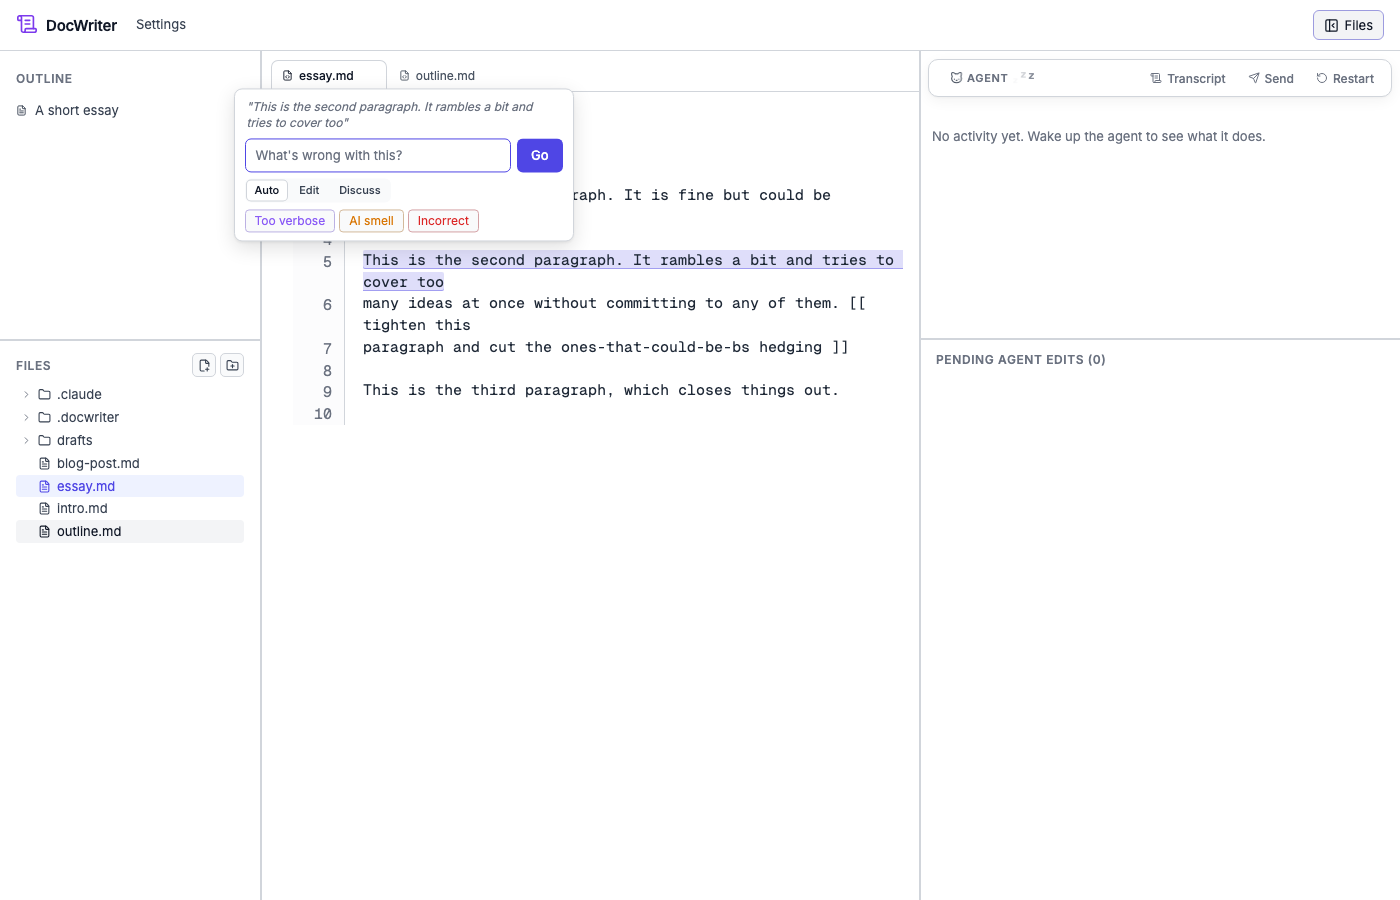
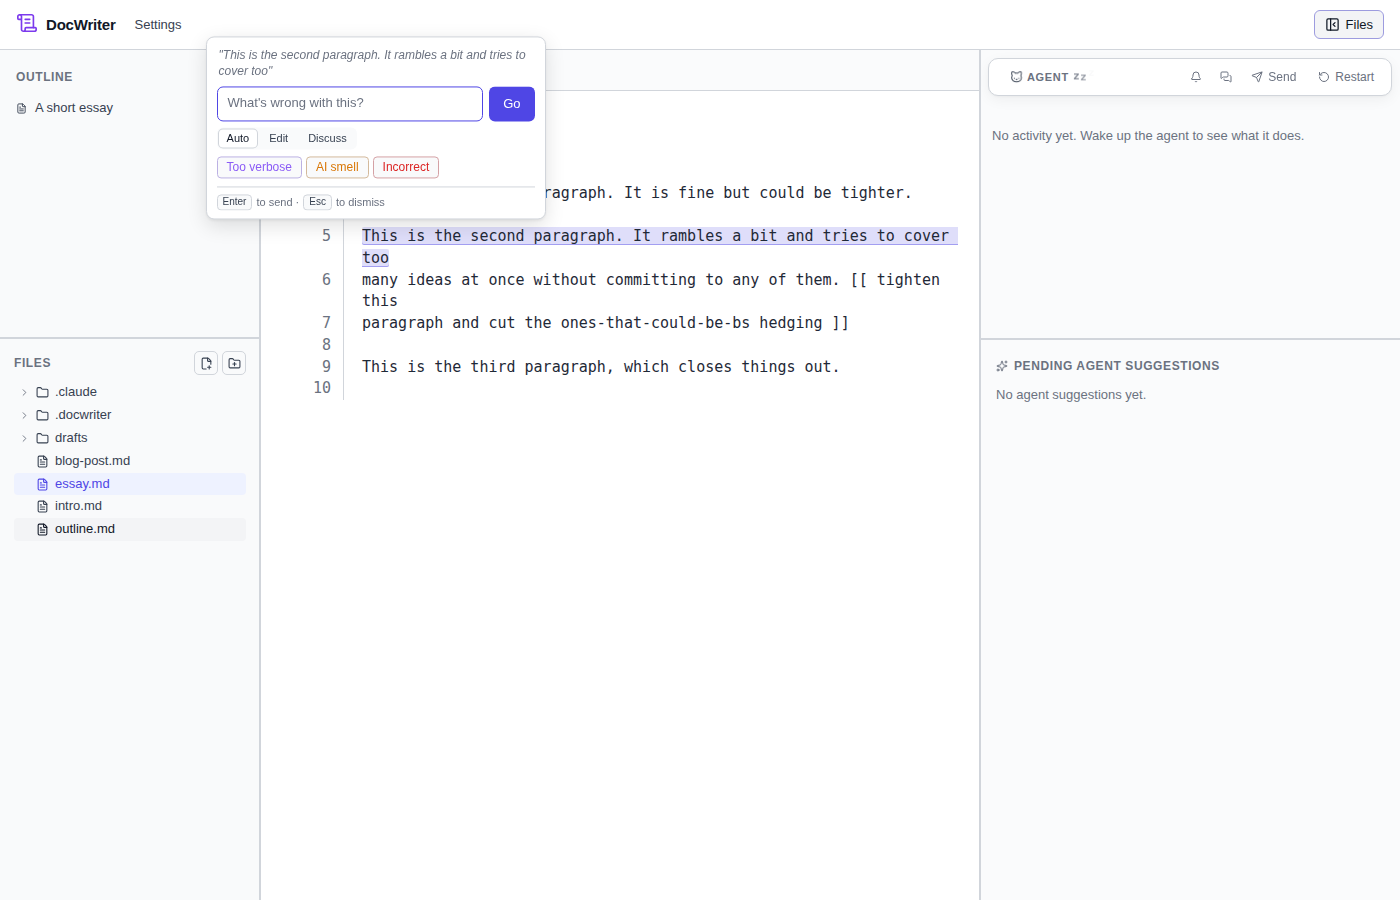
Add Esc/Enter keyboard hint to inline feedback popover
The inline feedback popover (triggered by selecting text in the editor)
had working Escape-to-dismiss and Enter-to-send handlers but no visible
indication of either. Add a small footer hint reading
"Enter to send · Esc to dismiss" so the popover never feels like a
trap, and regenerate the docs screenshot to reflect it.

https://claude.ai/code/session_01T49oGdWb7KoJaCWarYLfzo

diff --git a/src/lib/editor/TiptapEditor.svelte b/src/lib/editor/TiptapEditor.svelte
@@ -1258,6 +1258,9 @@
 					</button>
 				{/each}
 			</div>
+			<div class="feedback-hint">
+				<kbd>Enter</kbd> to send · <kbd>Esc</kbd> to dismiss
+			</div>
 		</div>
 	{/if}
 </div>
@@ -1927,6 +1930,28 @@
 		color: var(--text);
 		background: var(--bg);
 		box-shadow: 0 0 0 1px var(--border-light);
+	}
+	/* Footer keyboard hint — reminds you the popover is dismissable with
+	 * Esc (and submittable with Enter) so it never feels like a trap. */
+	.feedback-hint {
+		margin-top: 8px;
+		padding-top: 7px;
+		border-top: 1px solid var(--border-light);
+		font-size: 11px;
+		color: var(--text-faint);
+		display: flex;
+		align-items: center;
+		gap: 4px;
+	}
+	.feedback-hint kbd {
+		font-family: inherit;
+		font-size: 10px;
+		line-height: 1;
+		padding: 2px 5px;
+		border: 1px solid var(--border-light);
+		border-radius: 4px;
+		background: var(--bg-surface);
+		color: var(--text-secondary);
 	}
 	/* Comment thread overlay: unresolved threads get a subtle amber
 	 * highlight, and a small gutter pill shows the message count. */
